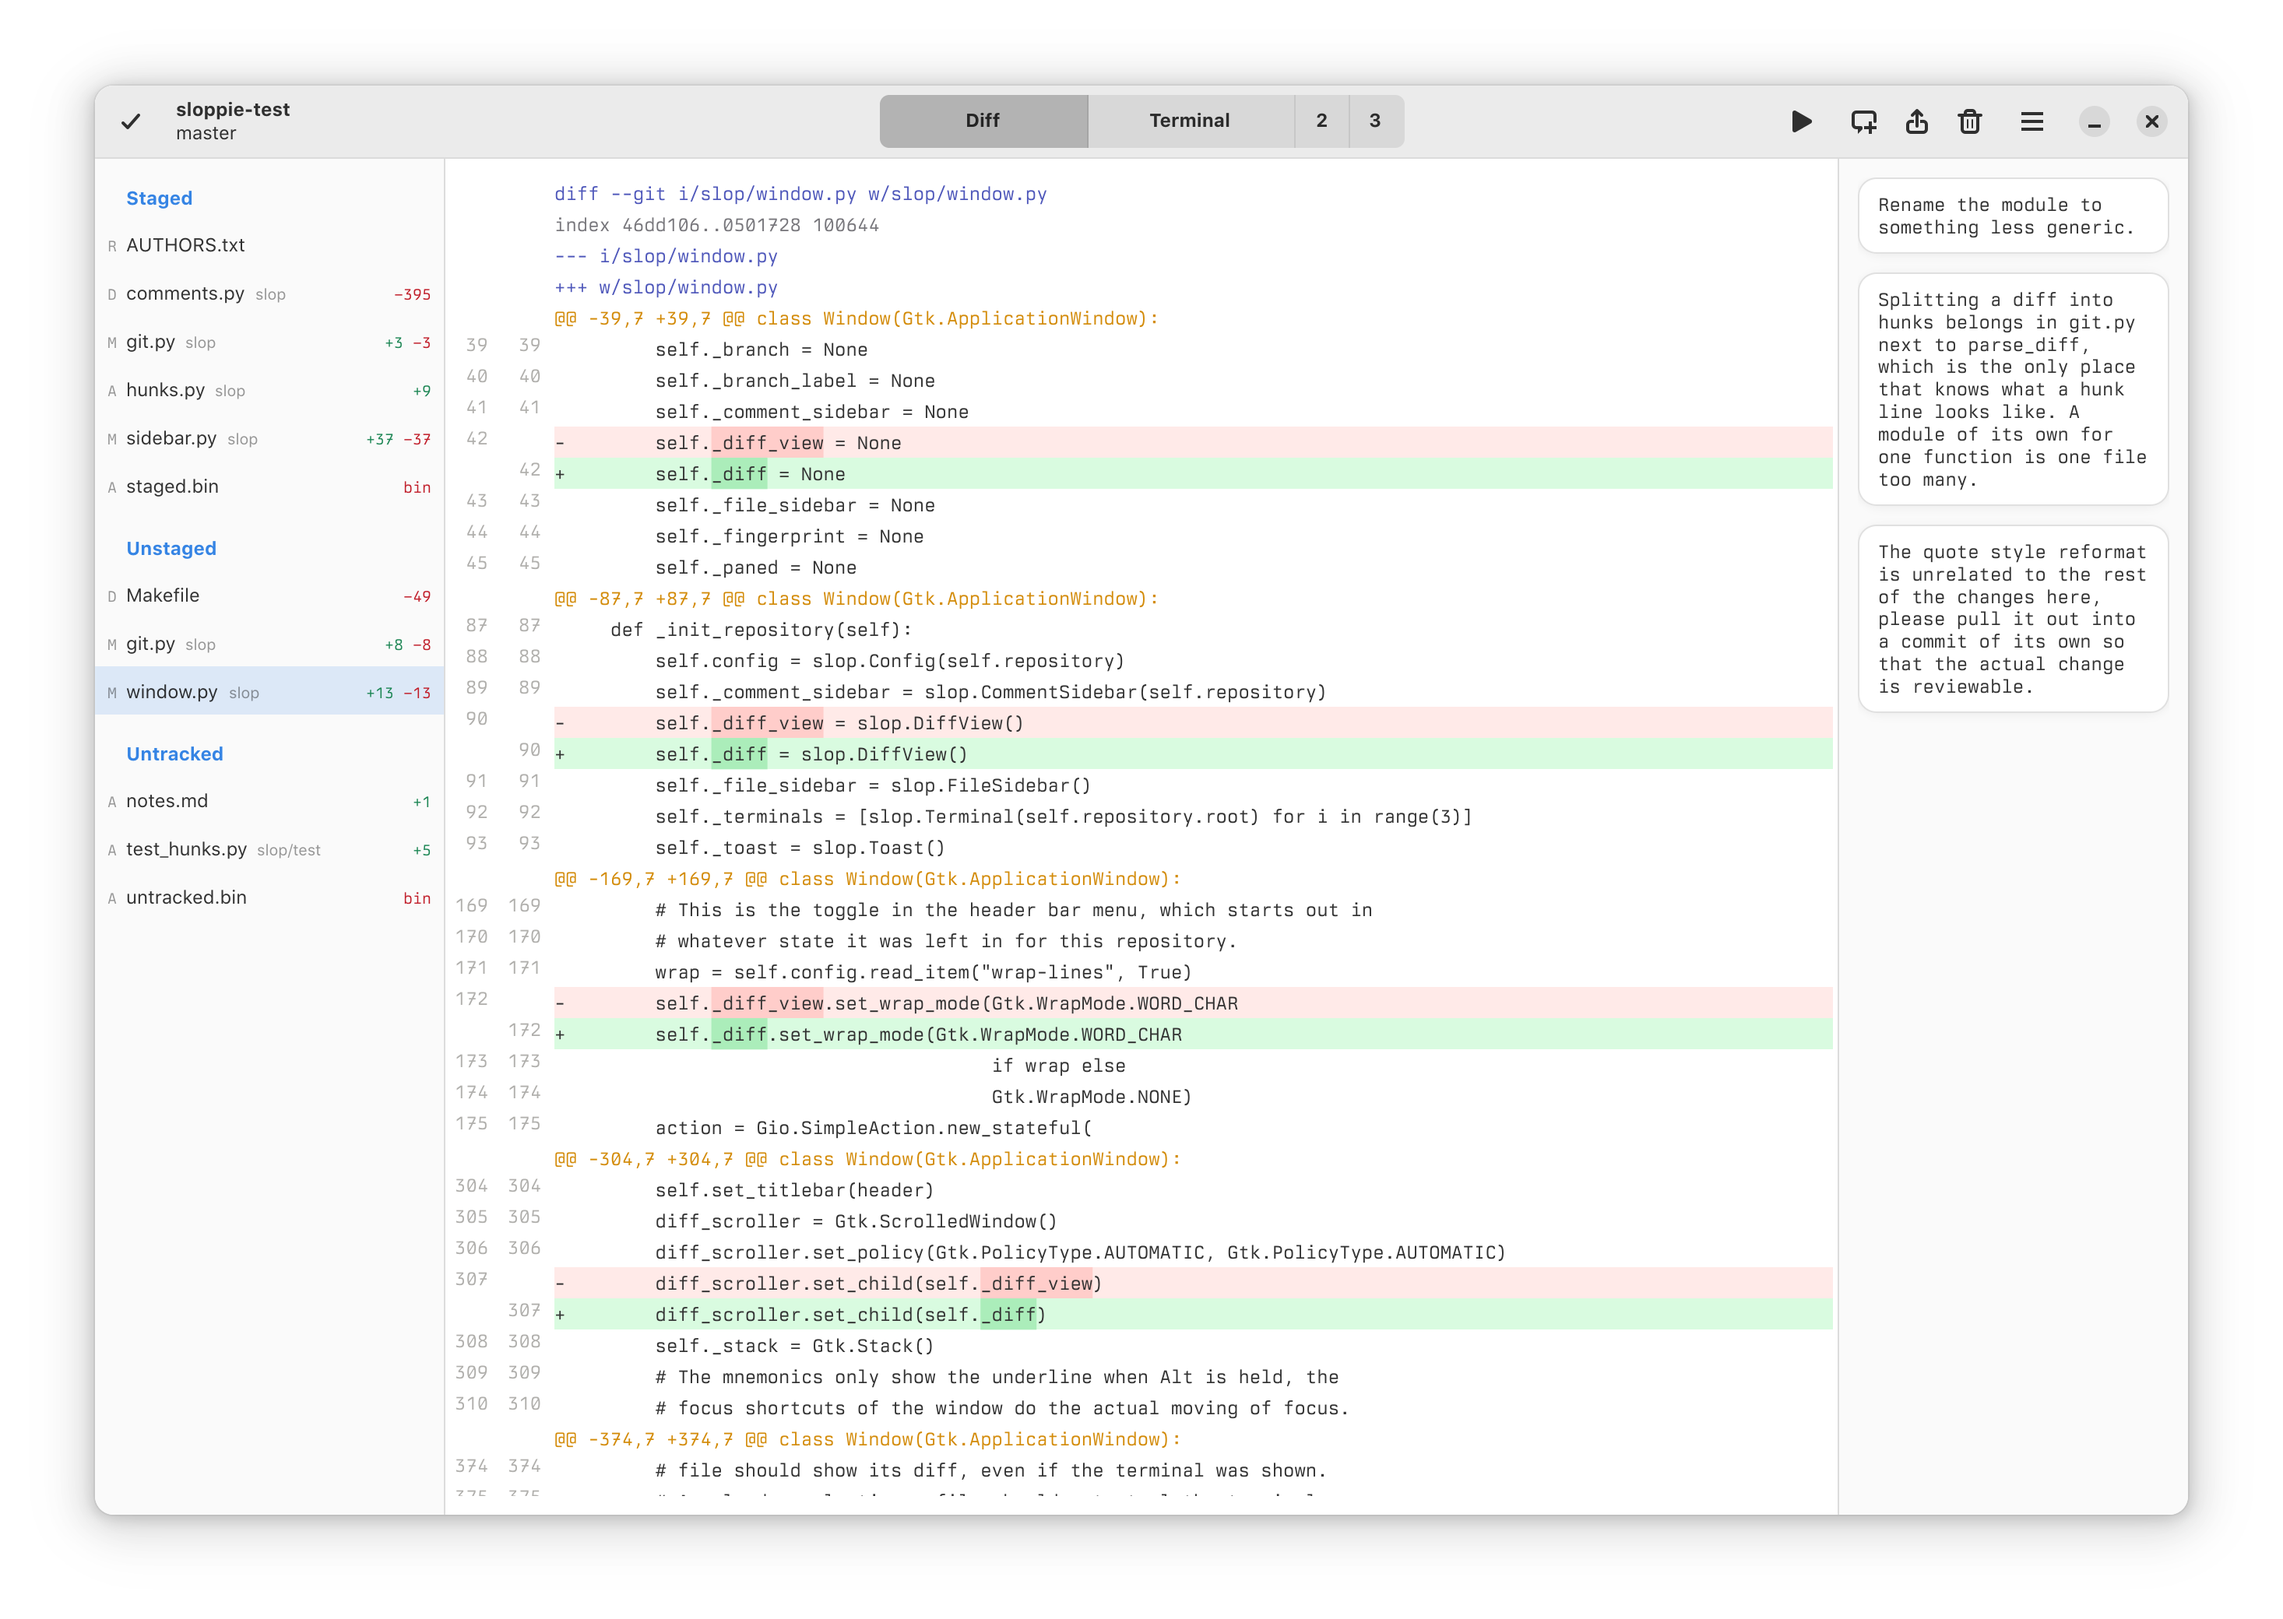
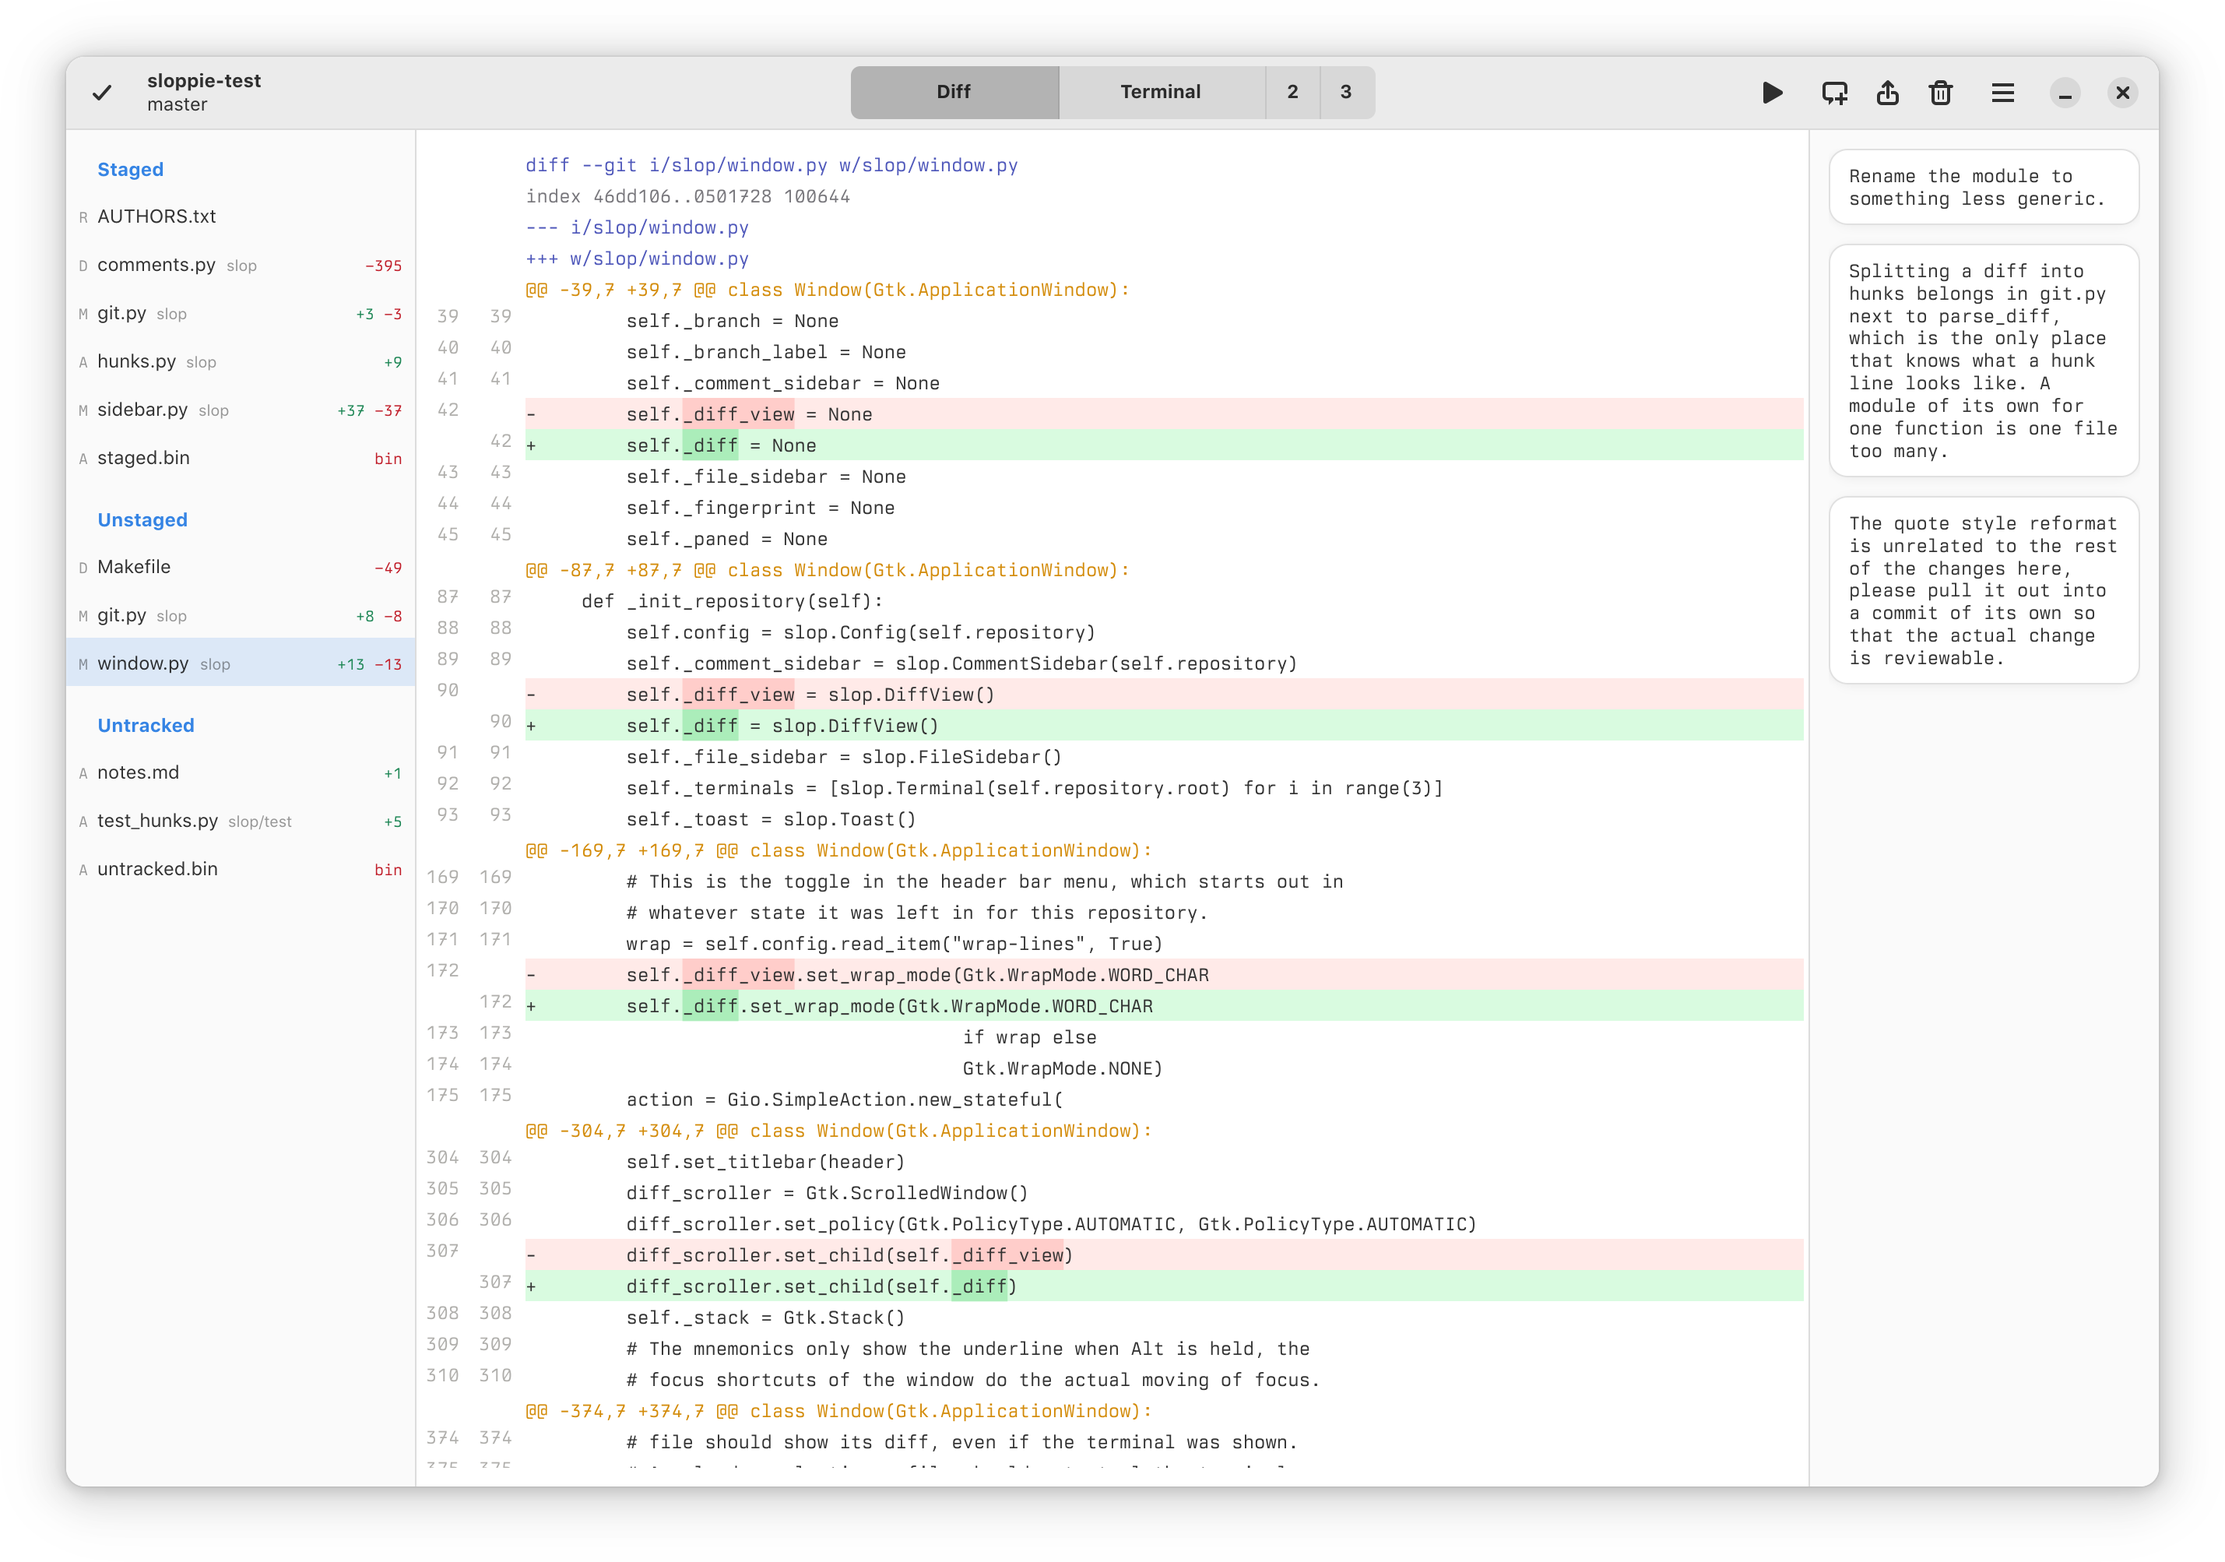
More README

diff --git a/README.md b/README.md
@@ -1,9 +1,18 @@
 # Sloppie
 
-TODO: Intro
+Sloppie is a development environment that combines a coding agent
+running in a terminal, a git diff viewer and a code-review like
+mechanism to pass comments on the diff async to the coding agent.
+Sloppie runs on Linux, fitting best in GNOME + Wayland environment.
 
-<img src="data/screenshot-1.png" alt="screenshot" width="1466">
-<img src="data/screenshot-2.png" alt="screenshot" width="1466">
+<img src="data/screenshot-1.png" alt="screenshot" width="1429">
+<img src="data/screenshot-2.png" alt="screenshot" width="1429">
+
+Sloppie is hard-coded to its author's preferences and not generic or
+configurable. If you like the concept and want to use Sloppie, instead
+of installing and using it directly, you'd likely want to clone the
+repository, ask a coding agent to customize the font, colors, editor
+etc. to your preferences and use that clone instead.
 
 ## Installing
 

diff --git a/AGENTS.md b/AGENTS.md
@@ -34,9 +34,9 @@ Document what you do take below.
 | Ctrl+S        | Stage file   | tty XOFF: stop output until Ctrl+Q              |
 | Ctrl+U        | Unstage file | readline unix-line-discard: erase to line start |
 | Ctrl+W        | Close window | readline unix-word-rubout: erase preceding word |
-| F5            | Run command  | nothing in readline or tty; TUI apps lose F5    |
 | Shift+Ctrl+C  | Copy         | tty ^C: interrupt, plain Ctrl+C unharmed        |
 | Shift+Ctrl+V  | Paste        | readline quoted-insert, plain Ctrl+V unharmed   |
+| F5            | Run command  | nothing in readline or tty; TUI apps lose F5    |
 | Shift+F5      | Set command  | same as F5: nothing in readline or tty          |
 
 When unsure what to do about VTE keybindings and other behaviour: check

diff --git a/TODO.md b/TODO.md
@@ -1,9 +1,10 @@
 # TODO
 
-- Write README.md
+- Add recent repositories to initial dialog
 - Add with error_dialog(...) handler for any failing git operations
 - Review other error handlers
 - Test large diffs, add abort mechanism
 - Use simple syntax highlighting in the diff view
 - Add viewing past commits
 - Review unit test coverage
+- Review app colors (use off-white?)
